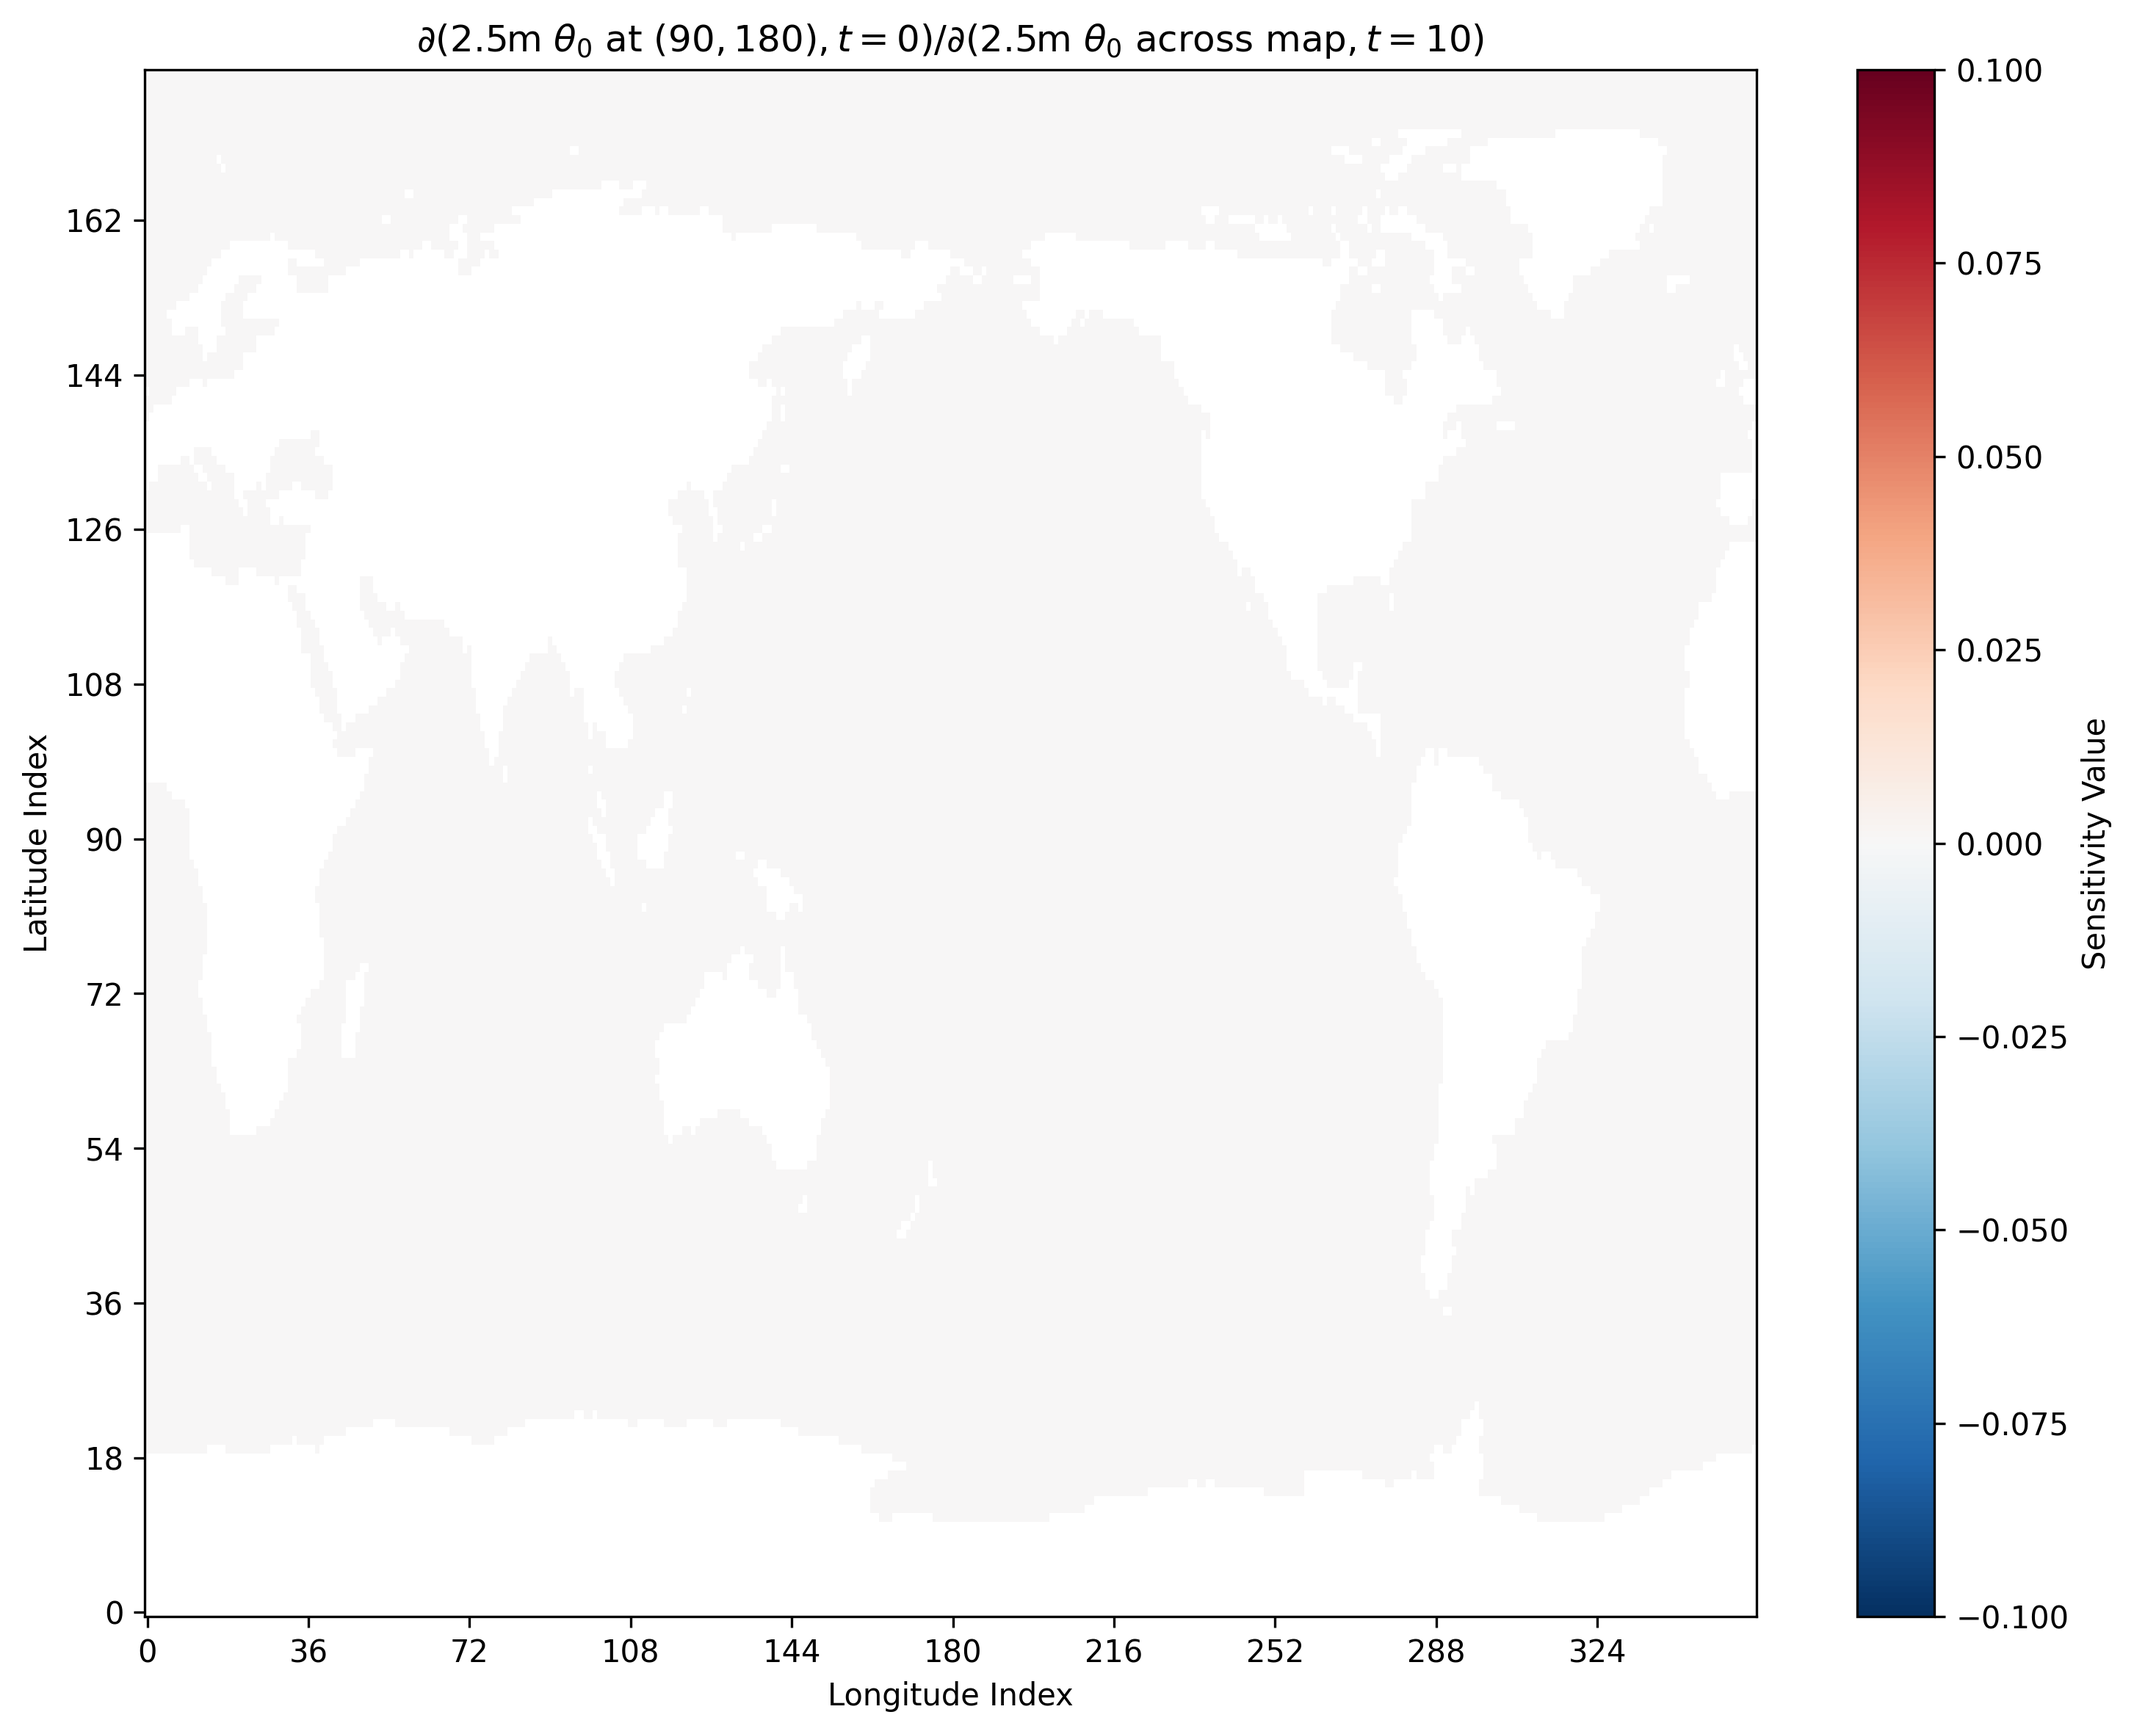
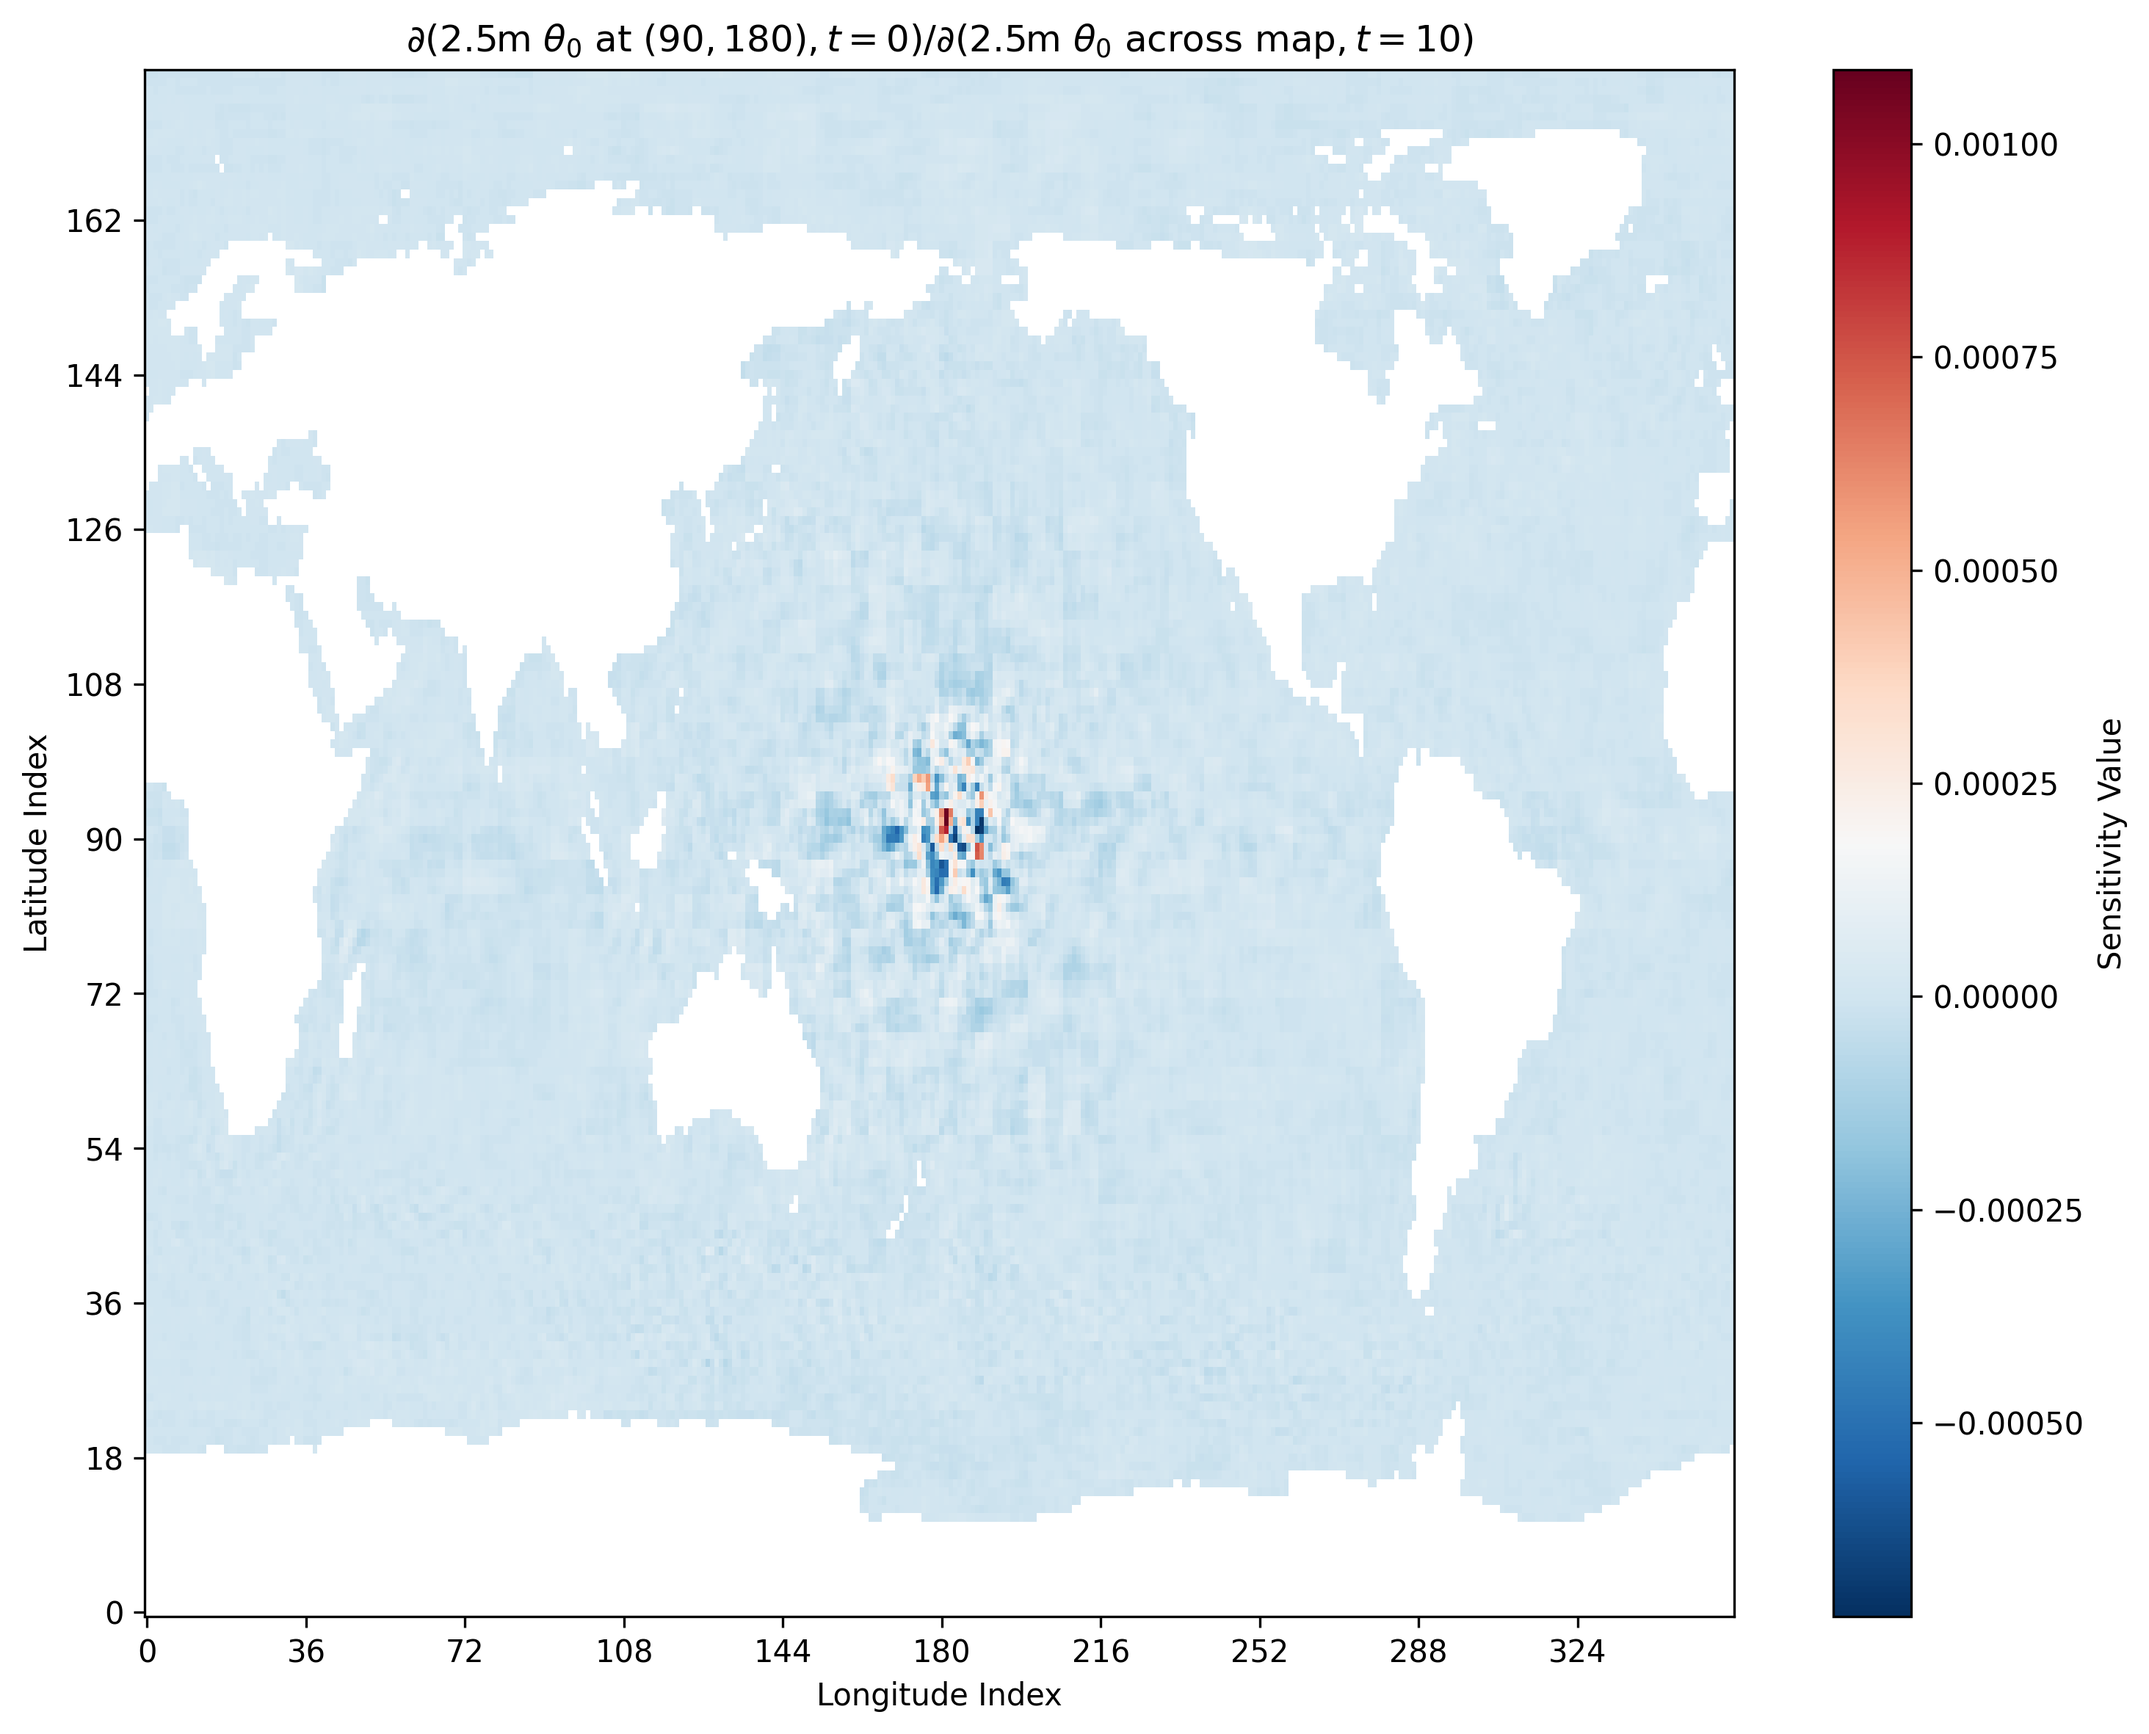
Trying to compute multi-timestep again

diff --git a/Samudra_Testing/samudra_adjoint.py b/Samudra_Testing/samudra_adjoint.py
@@ -154,7 +154,7 @@ def one_timestep(initial_time, final_time):
 
     # Save the sensitivity matrix to a file for debugging
     np.save(sensitivity_output_file, sensitivity_grid_np)
-one_timestep(initial_time, final_time)
+#one_timestep(initial_time, final_time)
 
 
 
@@ -202,7 +202,7 @@ def multi_timestep(initial_time, final_time):
         np.save(sensitivity_output_file, sensitivity_grid_np)
 
 
-#multi_timestep(initial_time, final_time)
+multi_timestep(initial_time, final_time)
 
 #final_time = 20
 #for initial_time in range(0, 19):

diff --git a/Samudra_Testing/plot_sensitivity.py b/Samudra_Testing/plot_sensitivity.py
@@ -5,7 +5,7 @@ from scipy import stats
 
 ### PARAMETERS ###
 
-t0,t1 = 9, 10
+t0,t1 = 0, 10
 size = "global"
 magn= 5
 grid_size = 20
